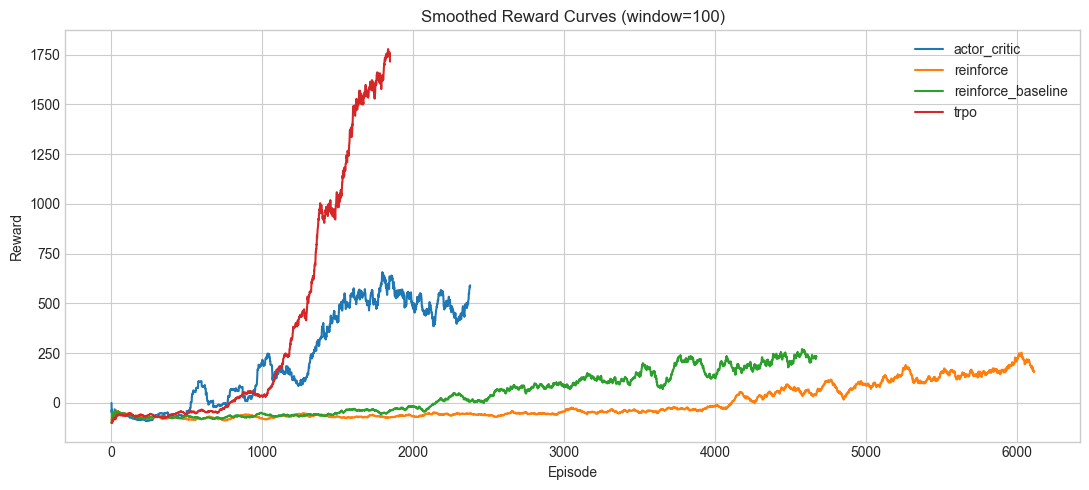
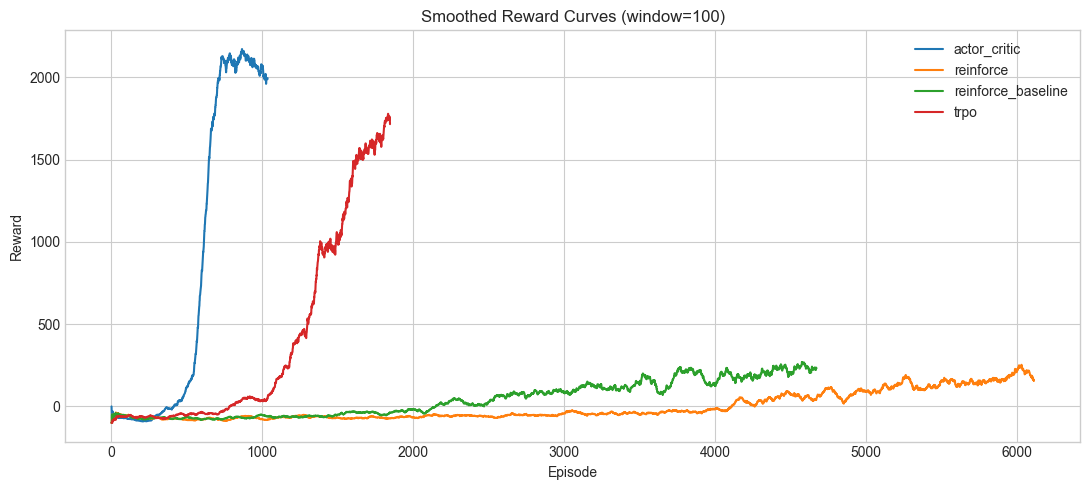
add parabolic

diff --git a/src/environment/pong_env.py b/src/environment/pong_env.py
@@ -247,16 +247,13 @@ class PongEnv:
             self.bx = self.RX - 1
             self.by = int(np.clip(round(y_cross), 0, self.H - 1))
 
-            # Angular bounce: edge hits produce stronger vertical deflection.
+            # Parabolic paddle: incoming vy preserved + quadratic boost from impact point.
+            # Center hit → small boost, edge hit → large boost.
             half_ph = max(1, self.PH // 2)
-            offset = self.by - self.py  # negative: upper edge, positive: lower edge
-            normalized_offset = offset / float(half_ph)  # in [-1, 1] approximately
-            angle_boost = int(round(2.0 * normalized_offset))  # map to {-2, -1, 0, 1, 2}
-            self.vy = int(
-                np.clip(
-                    self.vy + angle_boost, -self.MAX_BALL_SPEED_Y, self.MAX_BALL_SPEED_Y
-                )
-            )
+            offset = self.by - self.py
+            t_hit = np.clip(offset / float(half_ph), -1.0, 1.0)
+            curvature_boost = t_hit * abs(t_hit) * self.MAX_BALL_SPEED_Y
+            self.vy = int(np.clip(round(self.vy + curvature_boost), -self.MAX_BALL_SPEED_Y, self.MAX_BALL_SPEED_Y))
             self._apply_random_bounce_noise()
 
             self._hits += 1
@@ -291,10 +288,17 @@ class PongEnv:
 
         if abs(y_cross - self.ly) <= self.PH / 2.0:
             self.vx = abs(self.vx)
-            self.vy = self._opponent.apply_bounce_noise(self.vy, self._rng)
-            self._apply_random_bounce_noise()
             self.bx = self.LX + 1
             self.by = int(np.clip(round(y_cross), 0, self.H - 1))
+
+            half_ph = max(1, self.PH // 2)
+            offset = self.by - self.ly
+            t_opp = np.clip(offset / float(half_ph), -1.0, 1.0)
+            curvature_boost = t_opp * abs(t_opp) * self.MAX_BALL_SPEED_Y
+            self.vy = int(np.clip(round(self.vy + curvature_boost), -self.MAX_BALL_SPEED_Y, self.MAX_BALL_SPEED_Y))
+
+            self.vy = self._opponent.apply_bounce_noise(self.vy, self._rng)
+            self._apply_random_bounce_noise()
             return True
         return False
 

diff --git a/run/config.py b/run/config.py
@@ -14,14 +14,14 @@ class EnvConfig:
     height: int = 64
     paddle_width: int = 2
     paddle_height: int = 12
-    paddle_speed: int = 2
-    max_ball_speed_x: int = 2
-    max_ball_speed_y: int = 2
+    paddle_speed: int = 3
+    max_ball_speed_x: int = 4
+    max_ball_speed_y: int = 4
     random_bounce_prob: float = 1.0
     random_bounce_delta: int = 1
     left_x: int = 6
     right_x: int = 79
-    t_max: int = 2000
+    t_max: int = 5000
 
 
 @dataclass
@@ -32,7 +32,7 @@ class ActorCriticConfig:
     hidden_dim: int = 256
     gamma: float = 0.99
     lr: float = 3e-4
-    lr_min: float = 3e-6
+    lr_min: float = 3e-5
     lr_warmup_steps: int = 0
     lr_decay_steps: int = 500_000
     critic_coeff: float = 1
